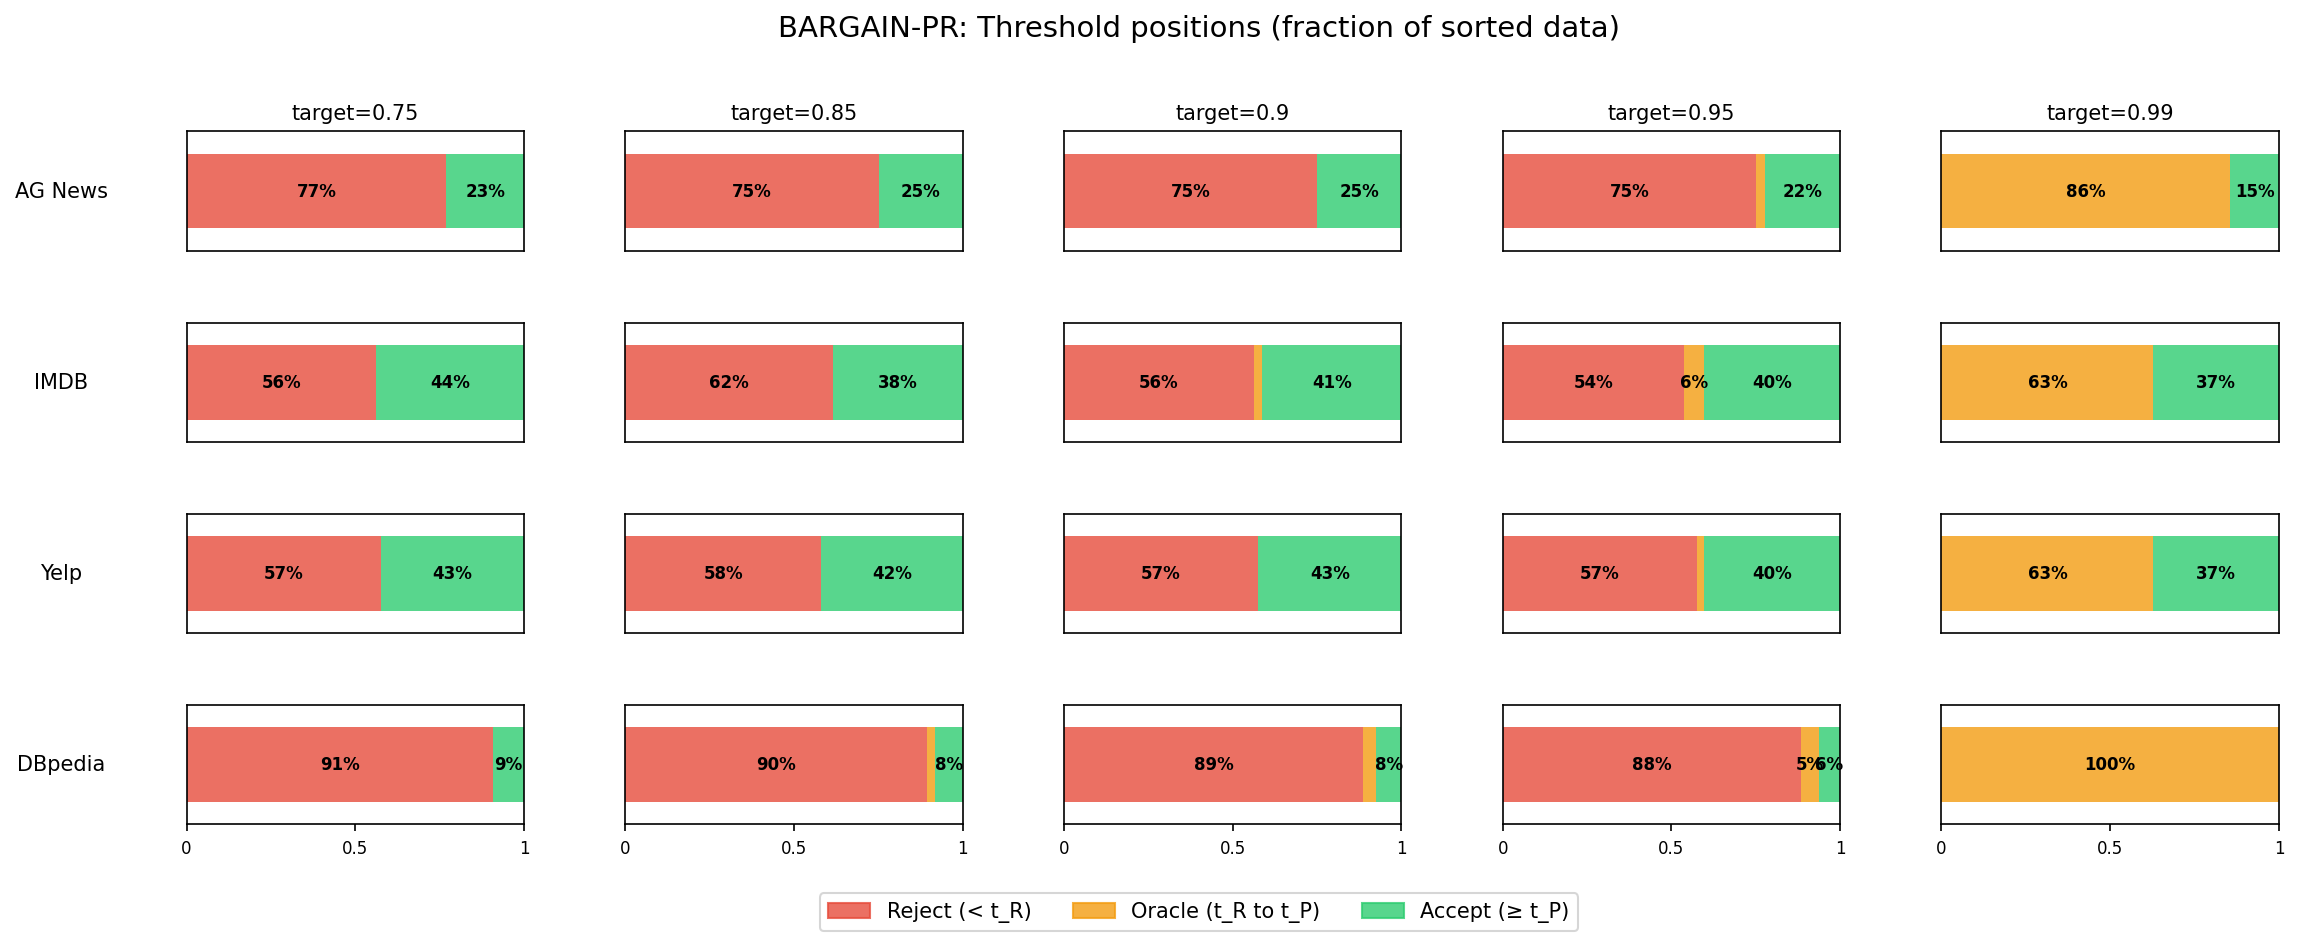
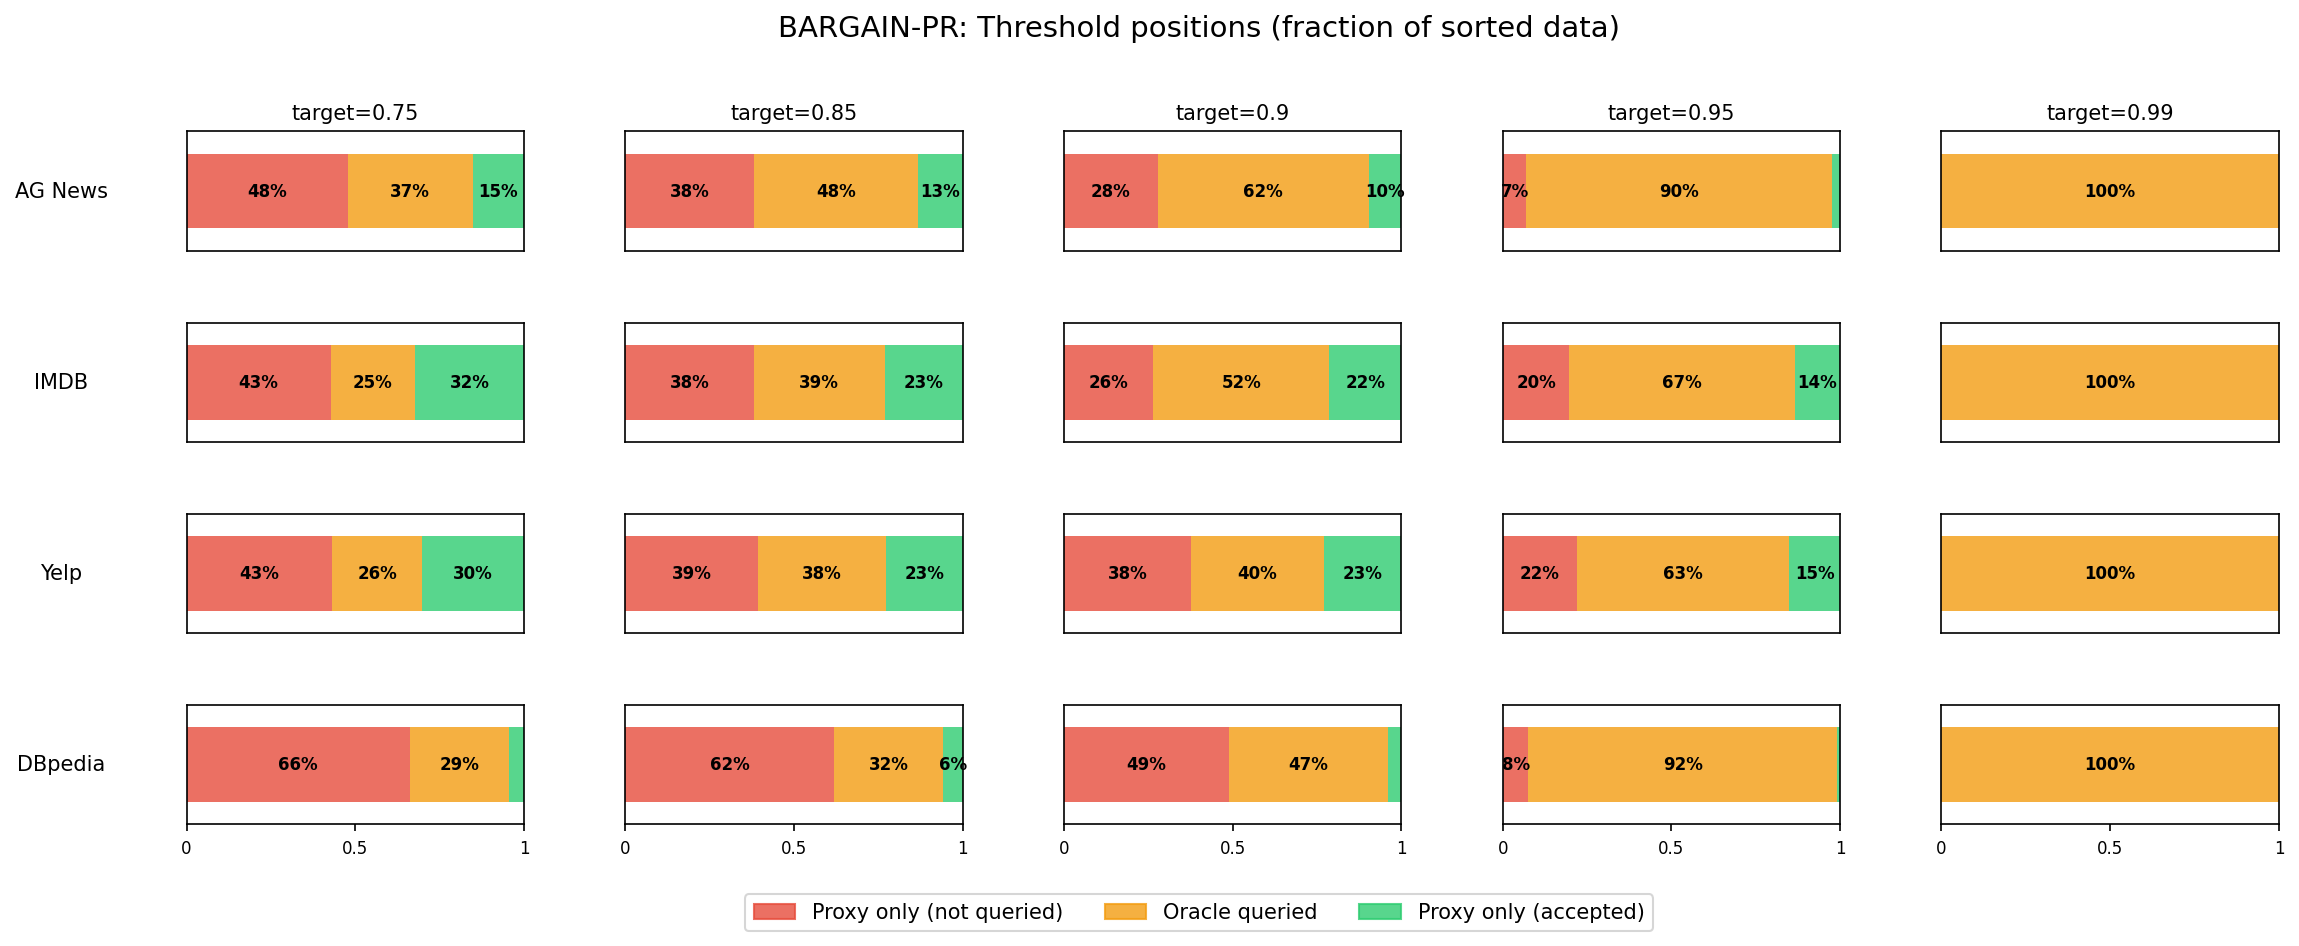
Fix threshold plot to show actual oracle usage, not decision zones
Now consistent with oracle calls plot: orange = items actually queried
by oracle (including sampling), red/green = proxy-only decisions.
At target=0.99, all bars correctly show 100% oracle.

https://claude.ai/code/session_011vFMnYGpnc6jgfSKbviRxo

diff --git a/examples/exp/plot_thresholds.py b/examples/exp/plot_thresholds.py
@@ -133,14 +133,25 @@ def run_dataset(ds_name, cfg):
         proxy.reset = lambda: None
         oracle.preds_dict = dict(saved_oracle_cache)
         oracle.reset = lambda: None
+        queried = set()
+        _orig_get_pred = type(oracle).get_pred
+        def _tracking_get_pred(self_oracle, data_records, indxs=None):
+            if indxs is not None:
+                for idx in indxs:
+                    queried.add(int(idx))
+            return _orig_get_pred(self_oracle, data_records, indxs)
+        oracle.get_pred = lambda *a, **kw: _tracking_get_pred(oracle, *a, **kw)
 
         bargain = BARGAIN_PR(proxy, oracle, delta=delta, target=target, W=50, seed=0, verbose=False)
         bargain.process(texts)
         n = bargain.n_
-        t_R = bargain.t_R_ / n
-        t_P = bargain.t_P_ / n
-        thresholds.append((t_R, t_P))
-        print(f"[{ds_name}] target={target}: t_R={t_R:.3f}, t_P={t_P:.3f}")
+        t_P = bargain.t_P_
+        not_queried_accept = len([i for i in range(t_P, n) if i not in queried])
+        oracle_frac = len(queried) / n
+        accept_frac = not_queried_accept / n
+        reject_frac = 1 - oracle_frac - accept_frac
+        thresholds.append((reject_frac, oracle_frac, accept_frac))
+        print(f"[{ds_name}] target={target}: reject={reject_frac:.3f}, oracle={oracle_frac:.3f}, accept={accept_frac:.3f}")
 
     print(f"[{ds_name}] COMPLETE")
     return ds_name, thresholds
@@ -162,18 +173,18 @@ fig, axes = plt.subplots(len(plot_order), len(targets), figsize=(18, 6),
 for row, ds_name in enumerate(plot_order):
     for col, target in enumerate(targets):
         ax = axes[row, col]
-        t_R, t_P = results[ds_name][col]
+        rej, orc, acc = results[ds_name][col]
 
-        ax.barh(0, t_R, left=0, height=0.5, color=colors['reject'], alpha=0.8)
-        ax.barh(0, t_P - t_R, left=t_R, height=0.5, color=colors['oracle'], alpha=0.8)
-        ax.barh(0, 1 - t_P, left=t_P, height=0.5, color=colors['accept'], alpha=0.8)
+        ax.barh(0, rej, left=0, height=0.5, color=colors['reject'], alpha=0.8)
+        ax.barh(0, orc, left=rej, height=0.5, color=colors['oracle'], alpha=0.8)
+        ax.barh(0, acc, left=rej + orc, height=0.5, color=colors['accept'], alpha=0.8)
 
-        if t_R > 0.05:
-            ax.text(t_R / 2, 0, f'{t_R:.0%}', ha='center', va='center', fontsize=8, fontweight='bold')
-        if t_P - t_R > 0.05:
-            ax.text((t_R + t_P) / 2, 0, f'{t_P - t_R:.0%}', ha='center', va='center', fontsize=8, fontweight='bold')
-        if 1 - t_P > 0.05:
-            ax.text((t_P + 1) / 2, 0, f'{1 - t_P:.0%}', ha='center', va='center', fontsize=8, fontweight='bold')
+        if rej > 0.05:
+            ax.text(rej / 2, 0, f'{rej:.0%}', ha='center', va='center', fontsize=8, fontweight='bold')
+        if orc > 0.05:
+            ax.text(rej + orc / 2, 0, f'{orc:.0%}', ha='center', va='center', fontsize=8, fontweight='bold')
+        if acc > 0.05:
+            ax.text(rej + orc + acc / 2, 0, f'{acc:.0%}', ha='center', va='center', fontsize=8, fontweight='bold')
 
         ax.set_xlim(0, 1)
         ax.set_ylim(-0.4, 0.4)
@@ -189,9 +200,9 @@ for row, ds_name in enumerate(plot_order):
             ax.set_xticks([])
 
 legend_patches = [
-    mpatches.Patch(color=colors['reject'], alpha=0.8, label='Reject (< t_R)'),
-    mpatches.Patch(color=colors['oracle'], alpha=0.8, label='Oracle (t_R to t_P)'),
-    mpatches.Patch(color=colors['accept'], alpha=0.8, label='Accept (≥ t_P)'),
+    mpatches.Patch(color=colors['reject'], alpha=0.8, label='Proxy only (not queried)'),
+    mpatches.Patch(color=colors['oracle'], alpha=0.8, label='Oracle queried'),
+    mpatches.Patch(color=colors['accept'], alpha=0.8, label='Proxy only (accepted)'),
 ]
 fig.legend(handles=legend_patches, loc='lower center', ncol=3, fontsize=10,
            bbox_to_anchor=(0.5, -0.02))
